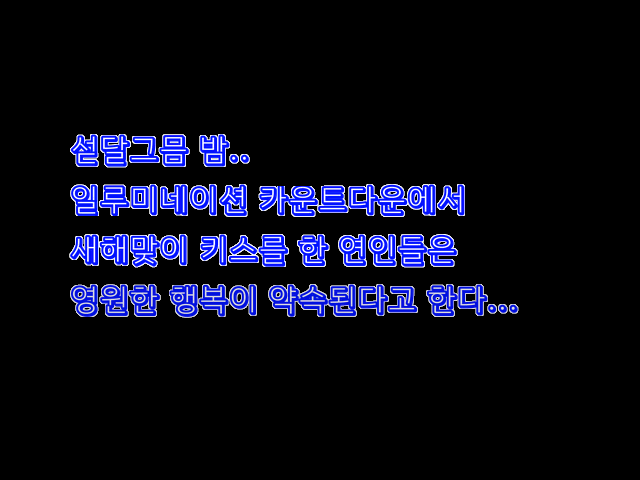
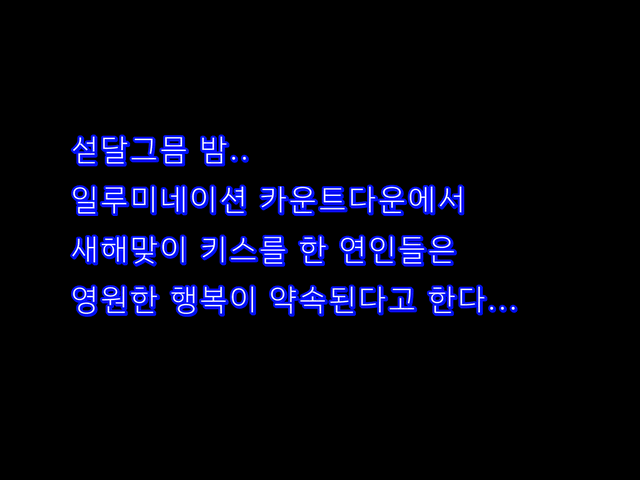
README 인트로 텍스트 카드 스크린샷 갱신(알파 수정 반영), 릴리즈 노트 SH4 클럭 단위 200MHz 로

diff --git a/tools/gen_release_notes.py b/tools/gen_release_notes.py
@@ -114,7 +114,7 @@ sha256 {src_sha}
 
 Flycast 2.6 에서 만들고 확인했습니다. redream 에서도 돌아갑니다.
 위 두 문제 없이 즐기려면 [Flycast KitaHe 1](https://github.com/badatbit/flycast/releases/tag/kitahe-1)
-을 권합니다. SH4 클럭은 기본값(200%)으로 두세요 — 오버클럭하면 사운드가 멈추며 진행이 막힐 수 있습니다.
+을 권합니다. SH4 클럭은 기본값(200MHz)으로 두세요 — 오버클럭하면 사운드가 멈추며 진행이 막힐 수 있습니다.
 
 ### 문의와 새 판
 
